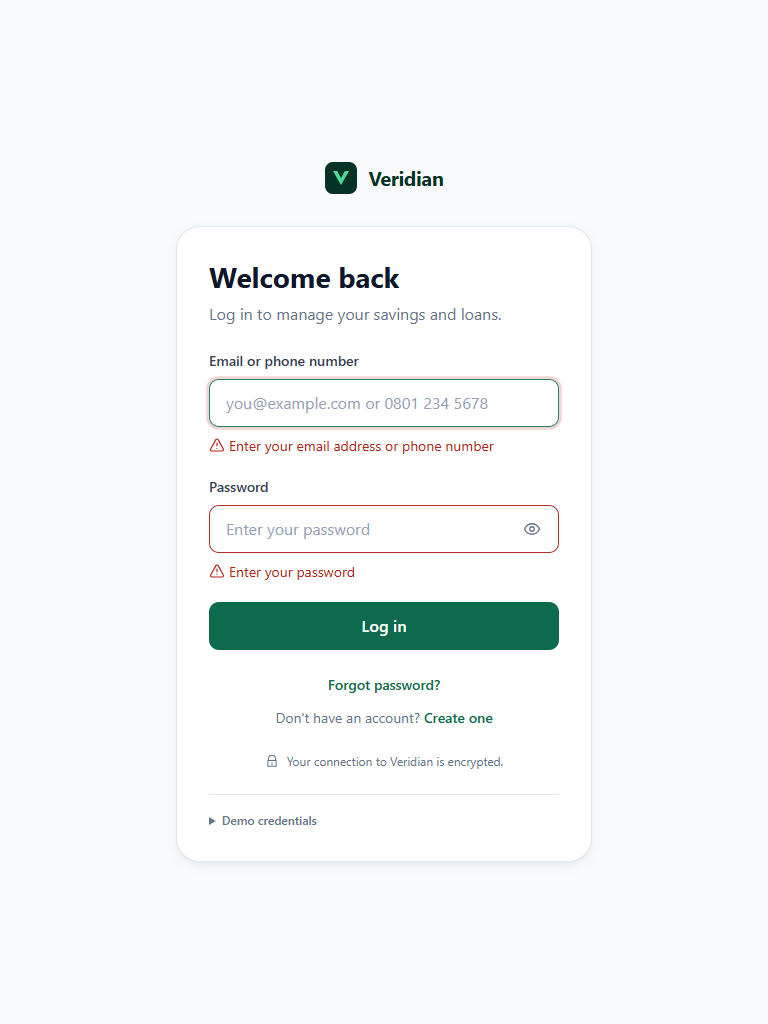
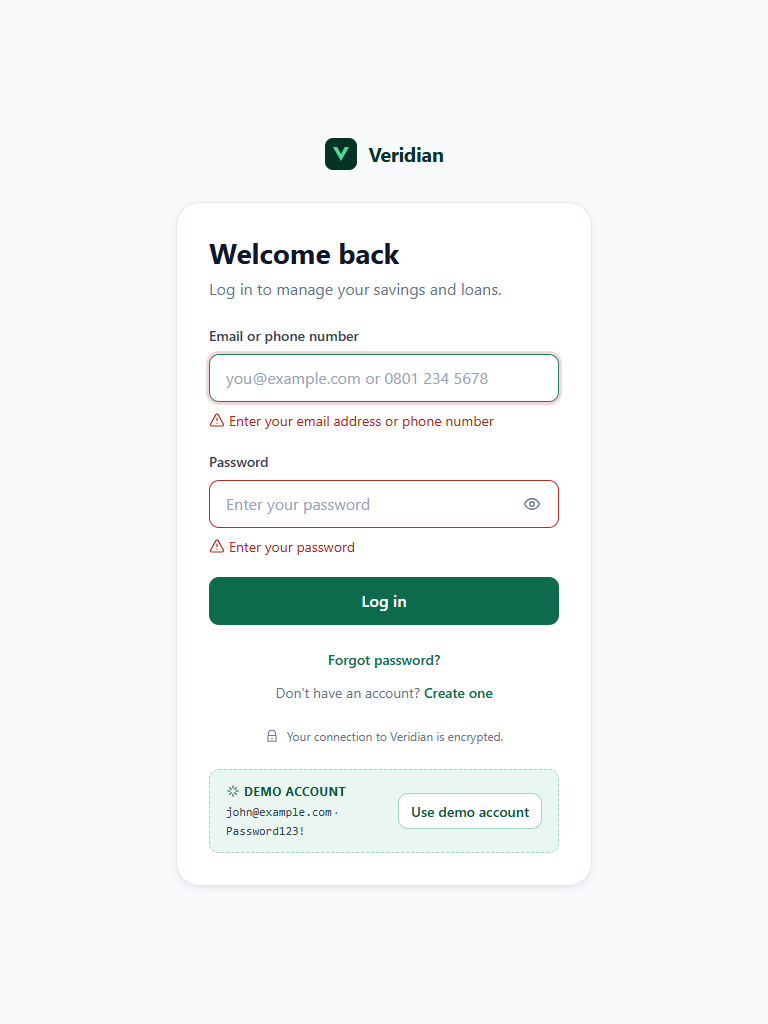
feat(web): one-click demo account on the login page; harden production boot
- Visible demo-account panel with a "Use demo account" button that fills
  the form and focuses Log in (E2E covered)
- API refuses to start in production without real JWT secrets
- ConfigModule resolves api/.env from any working directory

diff --git a/web/src/pages/LoginPage.tsx b/web/src/pages/LoginPage.tsx
@@ -1,14 +1,19 @@
-import { useCallback } from 'react';
+import { useCallback, useState } from 'react';
 import { Link, useLocation, useNavigate } from 'react-router-dom';
 import { LoginForm } from '@/components/auth/LoginForm';
 import { Icon } from '@/components/ui/Icon';
 import { useAuth } from '@/hooks/useAuth';
 import { useDocumentTitle } from '@/hooks/useDocumentTitle';
 import type { LoginRequest } from '@/types/auth';
+import type { LoginFormValues } from '@/utils/validation';
 import styles from './LoginPage.module.css';
+
+/** Seeded demo account (see api/src/users/users.data.ts). */
+const DEMO_ACCOUNT: LoginFormValues = { identifier: 'john@example.com', password: 'Password123!' };
 
 export default function LoginPage() {
   useDocumentTitle('Log in');
+  const [prefill, setPrefill] = useState<LoginFormValues | null>(null);
   const { login } = useAuth();
   const navigate = useNavigate();
   const location = useLocation();
@@ -29,7 +34,7 @@ export default function LoginPage() {
         <p className={styles.subtitle}>Log in to manage your savings and loans.</p>
       </header>
 
-      <LoginForm onSubmit={handleLogin} />
+      <LoginForm onSubmit={handleLogin} prefill={prefill} />
 
       <div className={styles.links}>
         <Link to="/forgot-password" className={styles.link}>
@@ -48,19 +53,24 @@ export default function LoginPage() {
         Your connection to Veridian is encrypted.
       </p>
 
-      <details className={styles.demo}>
-        <summary>Demo credentials</summary>
-        <dl>
-          <div>
-            <dt>Email</dt>
-            <dd>john@example.com</dd>
-          </div>
-          <div>
-            <dt>Password</dt>
-            <dd>Password123!</dd>
-          </div>
-        </dl>
-      </details>
+      <aside className={styles.demo} aria-labelledby="demo-title">
+        <div className={styles.demoText}>
+          <p id="demo-title" className={styles.demoTitle}>
+            <Icon name="sparkle" size={14} /> Demo account
+          </p>
+          <p className={styles.demoCreds}>
+            <code>{DEMO_ACCOUNT.identifier}</code> · <code>{DEMO_ACCOUNT.password}</code>
+          </p>
+        </div>
+        <button
+          type="button"
+          className={styles.demoButton}
+          // A new object each click so the form refills even after edits.
+          onClick={() => setPrefill({ ...DEMO_ACCOUNT })}
+        >
+          Use demo account
+        </button>
+      </aside>
     </div>
   );
 }

diff --git a/web/src/components/auth/LoginForm.tsx b/web/src/components/auth/LoginForm.tsx
@@ -1,4 +1,4 @@
-import { useId, useRef, useState, type FormEvent } from 'react';
+import { useEffect, useId, useRef, useState, type FormEvent } from 'react';
 import { flushSync } from 'react-dom';
 import { Button } from '@/components/ui/Button';
 import { Icon } from '@/components/ui/Icon';
@@ -17,6 +17,8 @@ import styles from './LoginForm.module.css';
 
 interface LoginFormProps {
   onSubmit: (credentials: LoginRequest) => Promise<unknown>;
+  /** When this changes (new object), the fields are filled with it - used by "Use demo account". */
+  prefill?: LoginFormValues | null;
 }
 
 const INITIAL_VALUES: LoginFormValues = { identifier: '', password: '' };
@@ -26,7 +28,7 @@ const INITIAL_VALUES: LoginFormValues = { identifier: '', password: '' };
  * submit. The API error (wrong password, rate limit, offline...) is shown in a
  * live region above the fields, never as a raw transport error.
  */
-export function LoginForm({ onSubmit }: LoginFormProps) {
+export function LoginForm({ onSubmit, prefill = null }: LoginFormProps) {
   const [values, setValues] = useState<LoginFormValues>(INITIAL_VALUES);
   const [errors, setErrors] = useState<LoginFormErrors>({});
   const [touched, setTouched] = useState<Partial<Record<keyof LoginFormValues, boolean>>>({});
@@ -35,6 +37,17 @@ export function LoginForm({ onSubmit }: LoginFormProps) {
   const formErrorId = useId();
   const identifierRef = useRef<HTMLInputElement>(null);
   const passwordRef = useRef<HTMLInputElement>(null);
+  const submitRef = useRef<HTMLButtonElement>(null);
+
+  useEffect(() => {
+    if (!prefill) return;
+    setValues(prefill);
+    setErrors({});
+    setTouched({});
+    setFormError(null);
+    // Focus the submit button so a single Enter/click completes the login.
+    submitRef.current?.focus();
+  }, [prefill]);
 
   const update = (field: keyof LoginFormValues) => (event: React.ChangeEvent<HTMLInputElement>) => {
     const value = event.target.value;
@@ -124,7 +137,14 @@ export function LoginForm({ onSubmit }: LoginFormProps) {
         required
       />
 
-      <Button type="submit" size="lg" fullWidth loading={submitting} loadingText="Signing in…">
+      <Button
+        ref={submitRef}
+        type="submit"
+        size="lg"
+        fullWidth
+        loading={submitting}
+        loadingText="Signing in…"
+      >
         Log in
       </Button>
     </form>

diff --git a/web/src/pages/LoginPage.module.css b/web/src/pages/LoginPage.module.css
@@ -55,37 +55,65 @@
 }
 
 .demo {
-  font-size: var(--text-xs);
-  color: var(--text-muted);
-  border-top: 1px solid var(--border);
-  padding-top: var(--space-4);
+  display: flex;
+  align-items: center;
+  justify-content: space-between;
+  gap: var(--space-3);
+  padding: var(--space-3) var(--space-4);
+  border: 1px dashed var(--brand-200);
+  border-radius: var(--radius-md);
+  background: var(--brand-50);
 }
 
-.demo summary {
-  cursor: pointer;
-  font-weight: 600;
-  color: var(--ink-500);
-}
-
-.demo dl {
+.demoText {
   display: flex;
   flex-direction: column;
-  gap: var(--space-1);
-  margin-top: var(--space-3);
+  gap: 0.15rem;
+  min-width: 0;
 }
 
-.demo dl div {
+.demoTitle {
   display: flex;
-  gap: var(--space-3);
+  align-items: center;
+  gap: var(--space-1);
+  font-size: var(--text-xs);
+  font-weight: 700;
+  letter-spacing: 0.04em;
+  text-transform: uppercase;
+  color: var(--brand-700);
 }
 
-.demo dt {
-  width: 4.5rem;
-  font-weight: 600;
-}
-
-.demo dd {
-  font-family: var(--font-mono);
+.demoCreds {
+  font-size: var(--text-xs);
   color: var(--ink-700);
+  overflow-wrap: anywhere;
+}
+
+.demoCreds code {
+  font-family: var(--font-mono);
   user-select: all;
+}
+
+.demoButton {
+  flex-shrink: 0;
+  min-height: 2.25rem;
+  padding: 0 var(--space-3);
+  border: 1px solid var(--brand-200);
+  border-radius: var(--radius-md);
+  background: var(--surface);
+  color: var(--brand-700);
+  font-size: var(--text-sm);
+  font-weight: 600;
+  white-space: nowrap;
+}
+
+.demoButton:hover {
+  background: var(--brand-100);
+}
+
+@media (max-width: 379px) {
+  .demo {
+    flex-direction: column;
+    align-items: stretch;
+  }
 }

diff --git a/web/src/components/ui/Button.tsx b/web/src/components/ui/Button.tsx
@@ -1,4 +1,4 @@
-import type { ButtonHTMLAttributes, ReactNode } from 'react';
+import { forwardRef, type ButtonHTMLAttributes, type ReactNode } from 'react';
 import { Link, type LinkProps } from 'react-router-dom';
 import styles from './Button.module.css';
 
@@ -25,23 +25,27 @@ function classes({ variant = 'primary', size = 'md', fullWidth }: BaseProps, ext
     .join(' ');
 }
 
-export function Button({
-  variant,
-  size,
-  fullWidth,
-  leadingIcon,
-  trailingIcon,
-  loading = false,
-  loadingText,
-  disabled,
-  children,
-  className,
-  type = 'button',
-  ...rest
-}: ButtonProps) {
+export const Button = forwardRef<HTMLButtonElement, ButtonProps>(function Button(
+  {
+    variant,
+    size,
+    fullWidth,
+    leadingIcon,
+    trailingIcon,
+    loading = false,
+    loadingText,
+    disabled,
+    children,
+    className,
+    type = 'button',
+    ...rest
+  },
+  ref,
+) {
   const isDisabled = disabled || loading;
   return (
     <button
+      ref={ref}
       type={type}
       className={classes({ variant, size, fullWidth }, className)}
       disabled={isDisabled}
@@ -54,7 +58,7 @@ export function Button({
       {!loading && trailingIcon}
     </button>
   );
-}
+});
 
 interface ButtonLinkProps extends BaseProps, LinkProps {}
 

diff --git a/api/src/main.ts b/api/src/main.ts
@@ -9,7 +9,25 @@ import { join, resolve } from 'node:path';
 import { AppModule } from './app.module';
 import { HttpExceptionFilter } from './common/filters/http-exception.filter';
 
+const DEV_SECRET_PATTERN = /change-me/;
+
+/** Refuse to boot in production with missing or placeholder JWT secrets. */
+function assertProductionSecrets(): void {
+  if (process.env.NODE_ENV !== 'production') return;
+  const missing = ['JWT_ACCESS_SECRET', 'JWT_REFRESH_SECRET'].filter(
+    (key) => !process.env[key] || DEV_SECRET_PATTERN.test(process.env[key] ?? ''),
+  );
+  if (missing.length > 0) {
+    Logger.error(
+      `Refusing to start in production: set ${missing.join(' and ')} to long random values.`,
+      'Bootstrap',
+    );
+    process.exit(1);
+  }
+}
+
 async function bootstrap() {
+  assertProductionSecrets();
   const app = await NestFactory.create<NestExpressApplication>(AppModule, {
     // Never log request bodies: they may contain passwords or other credentials.
     logger: ['error', 'warn', 'log'],

diff --git a/web/e2e/auth.spec.ts b/web/e2e/auth.spec.ts
@@ -24,6 +24,16 @@ test.describe('authentication', () => {
     await expect(page).toHaveURL(/\/login$/);
   });
 
+  test('"Use demo account" fills the form and signs in with one click', async ({ page }) => {
+    await page.goto('/login');
+    await page.getByRole('button', { name: 'Use demo account' }).click();
+    await expect(page.getByLabel('Email or phone number')).toHaveValue(DEMO_USER.identifier);
+    await expect(page.getByLabel('Password', { exact: true })).toHaveValue(DEMO_USER.password);
+    await expect(page.getByRole('button', { name: 'Log in' })).toBeFocused();
+    await page.keyboard.press('Enter');
+    await expect(page.getByRole('heading', { name: 'John' })).toBeVisible();
+  });
+
   test('client-side validation blocks an empty submit', async ({ page }) => {
     await page.goto('/login');
     await page.getByRole('button', { name: 'Log in' }).click();

diff --git a/api/src/app.module.ts b/api/src/app.module.ts
@@ -1,4 +1,5 @@
 import { Module } from '@nestjs/common';
+import { resolve } from 'node:path';
 import { ConfigModule } from '@nestjs/config';
 import { APP_GUARD, APP_INTERCEPTOR } from '@nestjs/core';
 import { ThrottlerGuard, ThrottlerModule } from '@nestjs/throttler';
@@ -12,7 +13,8 @@ import { UsersModule } from './users/users.module';
 
 @Module({
   imports: [
-    ConfigModule.forRoot({ isGlobal: true }),
+    // Loads api/.env regardless of the working directory (root scripts run from ../).
+    ConfigModule.forRoot({ isGlobal: true, envFilePath: [resolve(__dirname, '../.env'), '.env'] }),
     // Global rate limit: 100 requests / minute per IP. Login has a stricter limit.
     ThrottlerModule.forRoot([{ name: 'default', ttl: 60_000, limit: 100 }]),
     AuthModule,

diff --git a/README.md b/README.md
@@ -398,7 +398,7 @@ Then open http://localhost:3000. In this mode the API is mounted under `/api`, h
 | --- | --- |
 | `NODE_ENV=production` | Secure cookies, disables the dev-only latency / simulated-error helpers |
 | `SERVE_WEB=true` | Serve `web/dist` from the API process (single-origin deployment) |
-| `JWT_ACCESS_SECRET`, `JWT_REFRESH_SECRET` | Token signing secrets — generate long random values |
+| `JWT_ACCESS_SECRET`, `JWT_REFRESH_SECRET` | Token signing secrets — **required**; the API refuses to start in production without them (or with the `change-me` placeholders) |
 | `JWT_ACCESS_TTL`, `JWT_REFRESH_TTL` | Defaults `15m` / `7d` |
 | `LOGIN_RATE_LIMIT` | Login attempts per minute per IP (default 5) |
 | `CORS_ORIGINS` | Only needed if the SPA is hosted on a different origin |
